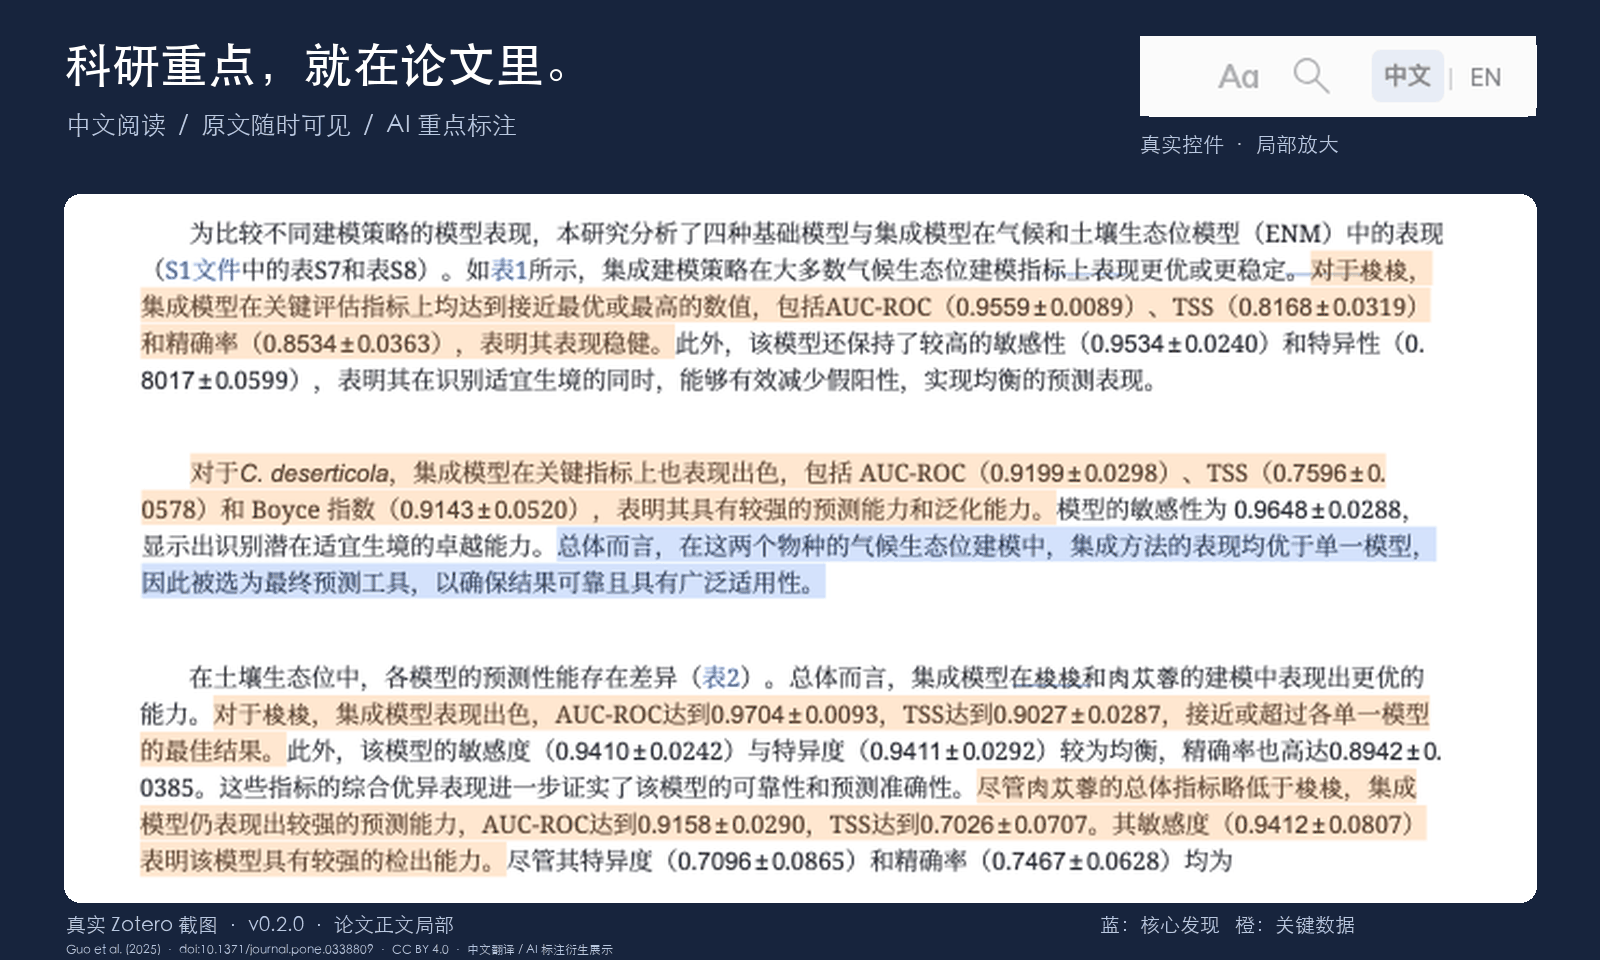
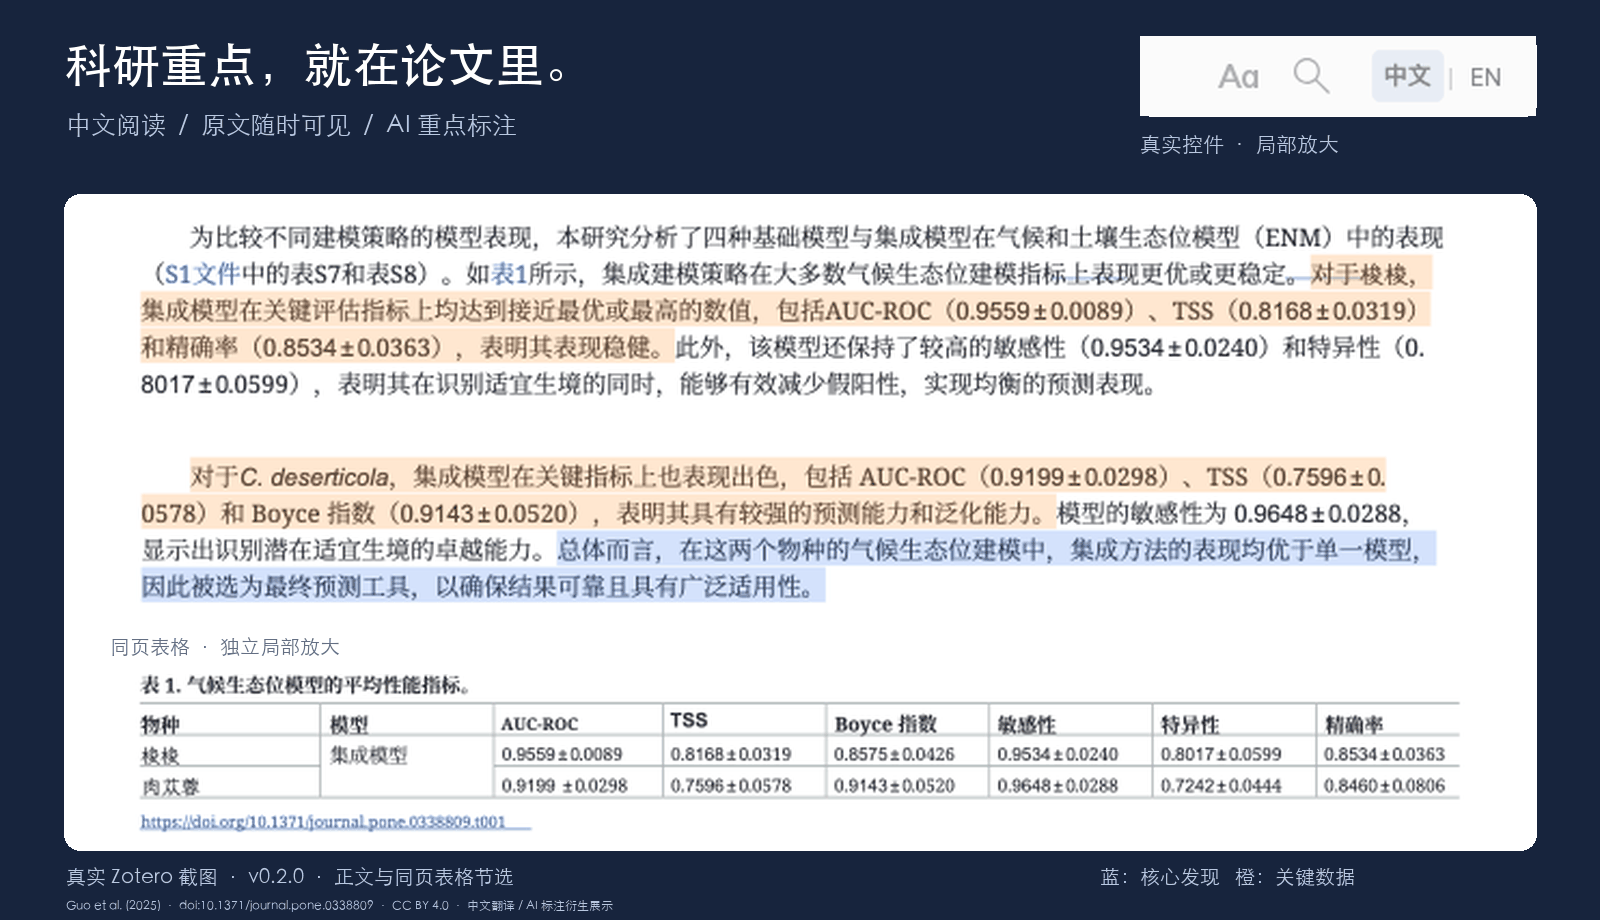
docs: feature intact paper excerpts and original table in product visuals

diff --git a/docs/brand/generate.py b/docs/brand/generate.py
@@ -107,18 +107,20 @@ def logo():
 
 
 def hero():
-    im = Image.new("RGB", (1600, 960), NAVY)
+    im = Image.new("RGB", (1600, 920), NAVY)
     label(im, (64, 40), "科研重点，就在论文里。", 48, WHITE, True)
     label(im, (66, 112), "中文阅读  /  原文随时可见  /  AI 重点标注", 25, "#B9C8E0")
     # The REAL v0.2.0 toolbar, enlarged as a separately labelled detail.
     rect(im, (1140, 36, 1536, 116), radius=12)
     crop(im, "highlights-after.png", (922, 0, 1120, 40), (1140, 36), 396)
     label(im, (1140, 133), "真实控件 · 局部放大", 21, "#B9C8E0")
-    rect(im, (64, 194, 1536, 902), radius=16)
-    crop(im, "highlights-after.png", (241, 299, 881, 619), (110, 210), 1380)
-    label(im, (66, 914), "真实 Zotero 截图 · v0.2.0 · 论文正文局部", 20, "#B9C8E0")
-    label(im, (1100, 914), "蓝：核心发现   橙：关键数据", 20, "#B9C8E0")
-    label(im, (66, 943), CREDIT, 12, "#B9C8E0")
+    rect(im, (64, 194, 1536, 850), radius=16)
+    crop(im, "highlights-after.png", (241, 299, 881, 485), (110, 214), 1380)
+    label(im, (110, 636), "同页表格 · 独立局部放大", 20, MUTED)
+    crop(im, "highlights-after.png", (241, 675, 881, 749), (110, 674), 1380)
+    label(im, (66, 866), "真实 Zotero 截图 · v0.2.0 · 正文与同页表格节选", 20, "#B9C8E0")
+    label(im, (1100, 866), "蓝：核心发现   橙：关键数据", 20, "#B9C8E0")
+    label(im, (66, 899), CREDIT, 12, "#B9C8E0")
     save(im, "hero.png")
 
 
@@ -172,7 +174,9 @@ def social(mark):
     label(im, (52, 407), "使用你自己的 API", 24, MUTED)
     rect(im, (556, 46, 1152, 510), outline=BORDER)
     label(im, (578, 66), "真实 Zotero 画面 · v0.2.0", 20, MUTED)
-    crop(im, "highlights-after.png", (241, 299, 881, 650), (574, 135), 560)
+    crop(im, "highlights-after.png", (241, 299, 881, 485), (574, 135), 560)
+    label(im, (580, 324), "同页表格 · 独立局部", 18, MUTED)
+    crop(im, "highlights-after.png", (241, 675, 881, 749), (574, 365), 560)
     label(im, (580, 466), "蓝色发现 · 橙色数据", 22, MUTED)
     ImageDraw.Draw(im).line((48, 548, 1152, 548), fill=BORDER, width=2)
     label(im, (50, 575), "Zotero 全文翻译 · 双语切换 · AI 重点标注", 24, NAVY, True)

diff --git a/README.md b/README.md
@@ -6,7 +6,7 @@
 
 在 Zotero 中完整翻译英文科研 PDF，尽可能保留论文版式；原文随时可见，重点直接标在中文译文里。
 
-![真实 Zotero 中文 PDF 正文中的橙色关键数据和蓝色核心发现；右上为实际中文 / EN 控件的独立放大裁切](docs/brand/hero.png)
+![真实 Zotero 中文 PDF 两段正文中的橙色关键数据与蓝色核心发现、同页表格节选；右上为中文 / EN 控件的独立放大细节](docs/brand/hero.png)
 
 <p align="center">
   <a href="dist/TransYH-0.2.3.xpi?raw=true">Download</a> ·
@@ -17,7 +17,7 @@
 
 <p align="center"><sub>当前开发版 v0.2.3 · 已验证 macOS Apple Silicon / Zotero 10.0.6</sub></p>
 
-<sub>真实界面截取自 v0.2.0 三页演示：Guo et al. (2025), PLOS ONE；仅原第 7、9、13 页，不代表整篇准确率验证。<a href="docs/demo/README.md">来源、CC BY 4.0 许可与核对记录 →</a></sub>
+<sub>真实界面截取自 v0.2.0 三页演示：Guo et al. (2025), PLOS ONE；仅原第 7、9、13 页，不代表整篇准确率验证。表中数值属于原论文的生态位模型。<a href="docs/demo/README.md">来源、CC BY 4.0 许可与核对记录 →</a></sub>
 
 ## 01 — Read in Chinese
 
